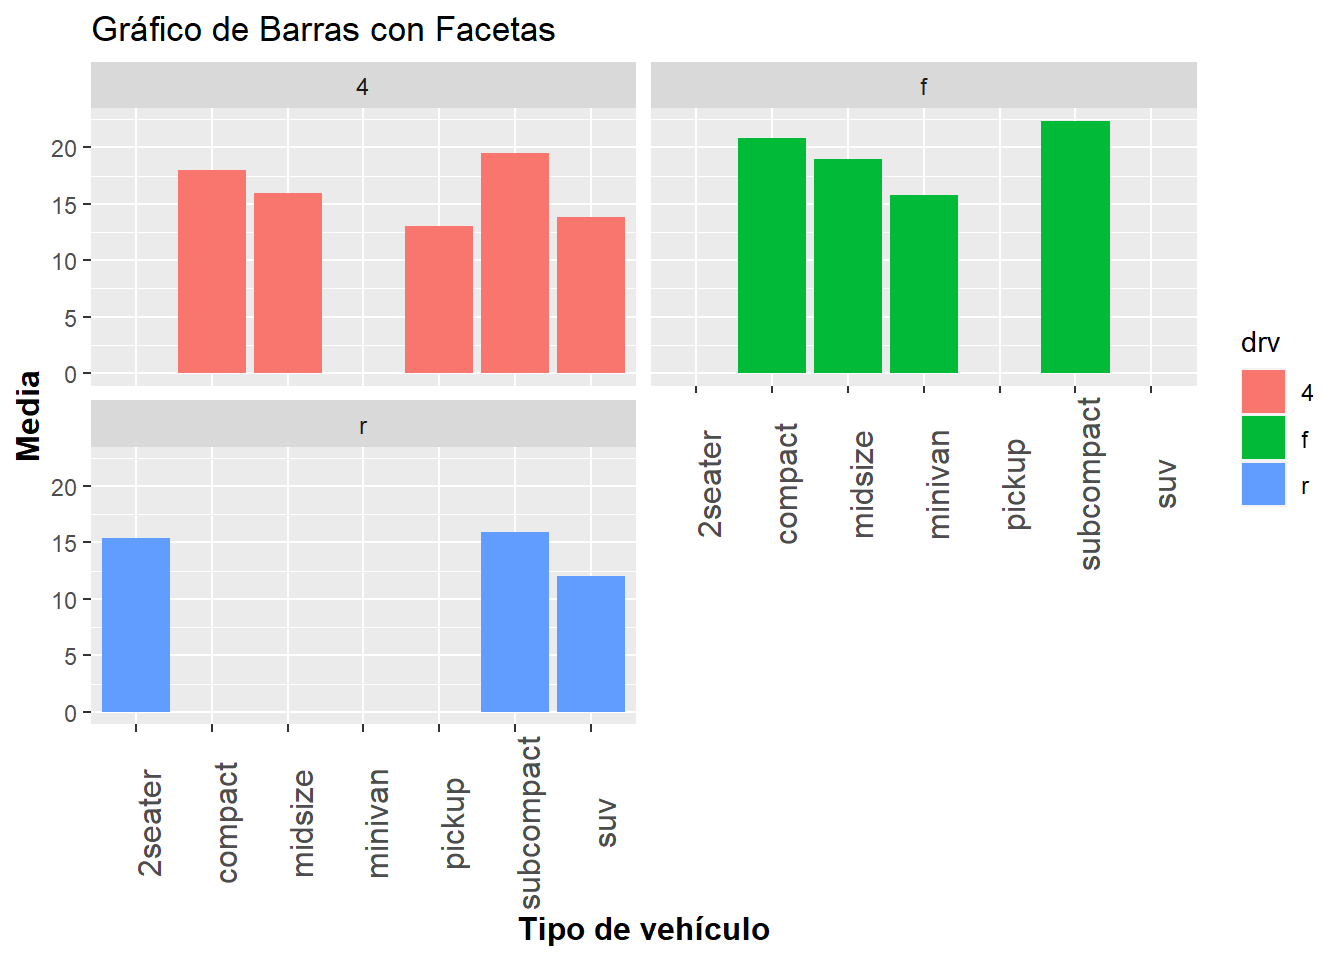
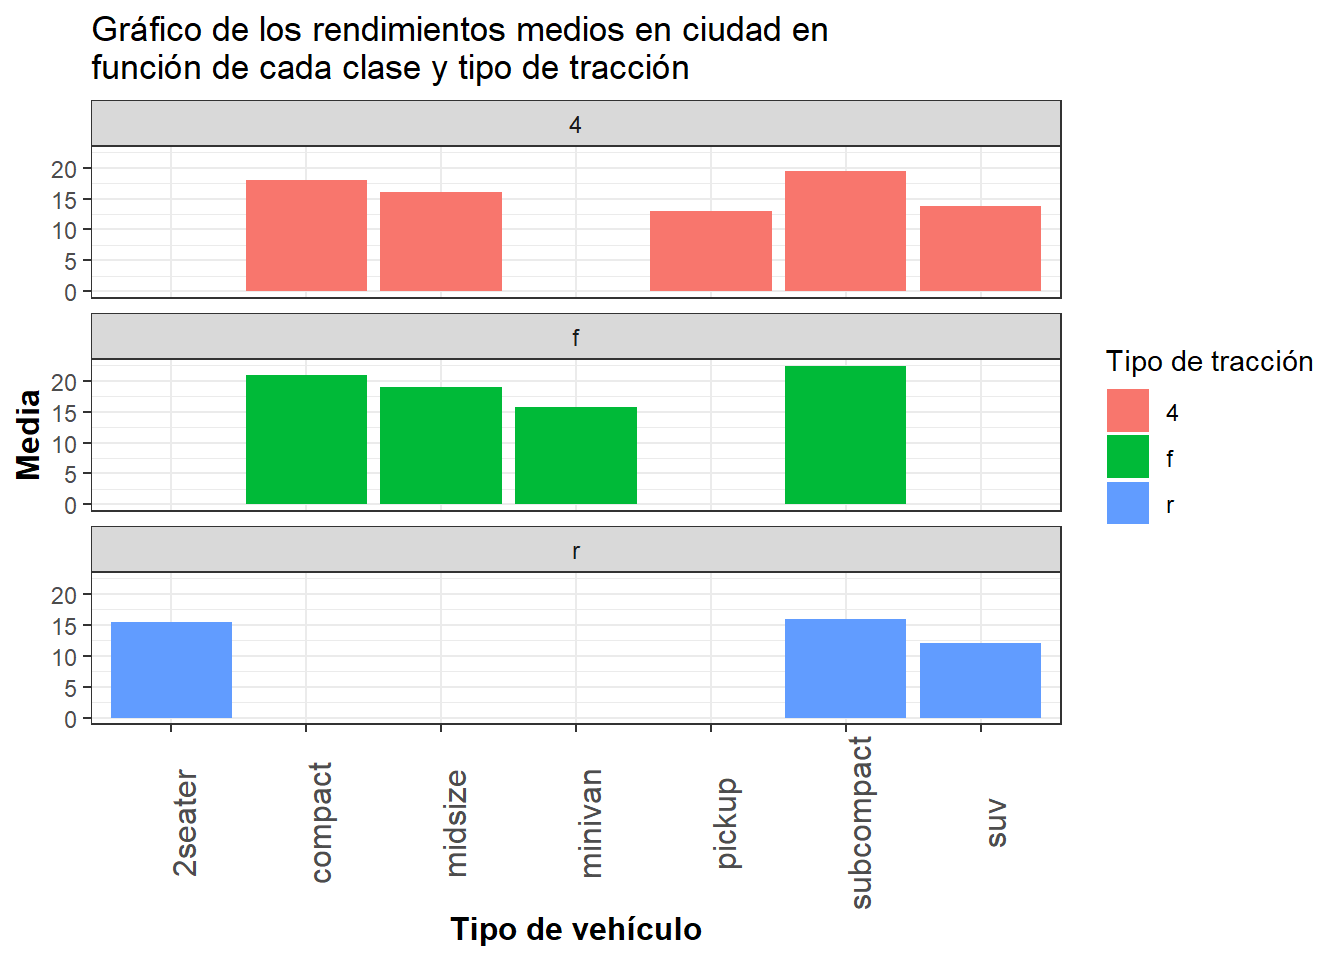
arreglo 3

diff --git a/Practica 2.html b/Practica 2.html
@@ -173,12 +173,14 @@ pre > code.sourceCode > span > a:first-child::before { text-decoration: underlin
 <div class="sourceCode cell-code" id="cb5"><pre class="sourceCode r code-with-copy"><code class="sourceCode r"><span id="cb5-1"><a href="#cb5-1" aria-hidden="true" tabindex="-1"></a>datos <span class="sc">%&gt;%</span> </span>
 <span id="cb5-2"><a href="#cb5-2" aria-hidden="true" tabindex="-1"></a>  <span class="fu">ggplot</span>(<span class="fu">aes</span>(<span class="at">x =</span> class, <span class="at">y =</span> cty, <span class="at">fill =</span> drv)) <span class="sc">+</span></span>
 <span id="cb5-3"><a href="#cb5-3" aria-hidden="true" tabindex="-1"></a>  <span class="fu">geom_bar</span>(<span class="at">stat =</span> <span class="st">"summary"</span>, <span class="at">fun =</span> <span class="st">"mean"</span>, <span class="at">position =</span> <span class="st">"stack"</span>) <span class="sc">+</span></span>
-<span id="cb5-4"><a href="#cb5-4" aria-hidden="true" tabindex="-1"></a>  <span class="fu">labs</span>(<span class="at">title =</span> <span class="st">"Gráfico de Barras con Facetas"</span>,</span>
+<span id="cb5-4"><a href="#cb5-4" aria-hidden="true" tabindex="-1"></a>  <span class="fu">labs</span>(<span class="at">title =</span> <span class="st">"Gráfico de los rendimientos medios en ciudad en</span><span class="sc">\n</span><span class="st">función de cada clase y tipo de tracción"</span>,</span>
 <span id="cb5-5"><a href="#cb5-5" aria-hidden="true" tabindex="-1"></a>       <span class="at">x =</span> <span class="st">"Tipo de vehículo"</span>,</span>
 <span id="cb5-6"><a href="#cb5-6" aria-hidden="true" tabindex="-1"></a>       <span class="at">y =</span> <span class="st">"Media"</span>) <span class="sc">+</span></span>
-<span id="cb5-7"><a href="#cb5-7" aria-hidden="true" tabindex="-1"></a>  <span class="fu">facet_wrap</span>(<span class="sc">~</span> drv, <span class="at">ncol =</span> <span class="dv">2</span>)<span class="sc">+</span></span>
-<span id="cb5-8"><a href="#cb5-8" aria-hidden="true" tabindex="-1"></a>  <span class="fu">theme</span>(<span class="at">axis.text.x =</span> <span class="fu">element_text</span>(<span class="at">angle=</span><span class="dv">90</span>,<span class="at">size=</span><span class="dv">12</span>),</span>
-<span id="cb5-9"><a href="#cb5-9" aria-hidden="true" tabindex="-1"></a>        <span class="at">axis.title =</span> <span class="fu">element_text</span>(<span class="at">size=</span><span class="dv">12</span>, <span class="at">face =</span> <span class="st">"bold"</span>))</span></code><button title="Copy to Clipboard" class="code-copy-button"><i class="bi"></i></button></pre></div>
+<span id="cb5-7"><a href="#cb5-7" aria-hidden="true" tabindex="-1"></a>  <span class="fu">guides</span>(<span class="at">fill =</span> <span class="fu">guide_legend</span>(<span class="at">title =</span> <span class="st">"Tipo de tracción"</span>))<span class="sc">+</span></span>
+<span id="cb5-8"><a href="#cb5-8" aria-hidden="true" tabindex="-1"></a>  <span class="fu">facet_wrap</span>(<span class="sc">~</span> drv, <span class="at">ncol =</span> <span class="dv">1</span>)<span class="sc">+</span></span>
+<span id="cb5-9"><a href="#cb5-9" aria-hidden="true" tabindex="-1"></a>  <span class="fu">theme_bw</span>()<span class="sc">+</span></span>
+<span id="cb5-10"><a href="#cb5-10" aria-hidden="true" tabindex="-1"></a>  <span class="fu">theme</span>(<span class="at">axis.text.x =</span> <span class="fu">element_text</span>(<span class="at">angle=</span><span class="dv">90</span>,<span class="at">size=</span><span class="dv">12</span>),</span>
+<span id="cb5-11"><a href="#cb5-11" aria-hidden="true" tabindex="-1"></a>        <span class="at">axis.title =</span> <span class="fu">element_text</span>(<span class="at">size=</span><span class="dv">12</span>, <span class="at">face =</span> <span class="st">"bold"</span>))</span></code><button title="Copy to Clipboard" class="code-copy-button"><i class="bi"></i></button></pre></div>
 <div class="cell-output-display">
 <p><img src="Practica-2_files/figure-html/unnamed-chunk-4-1.png" class="img-fluid" width="672"></p>
 </div>
